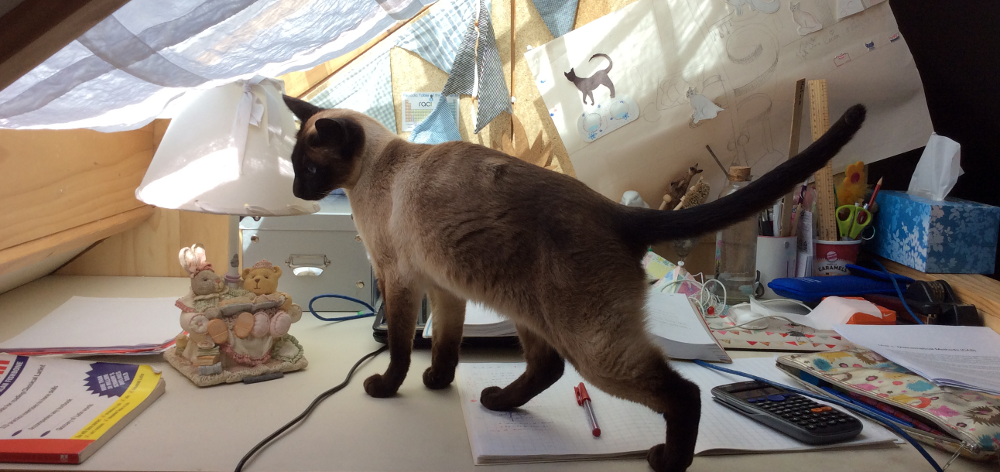
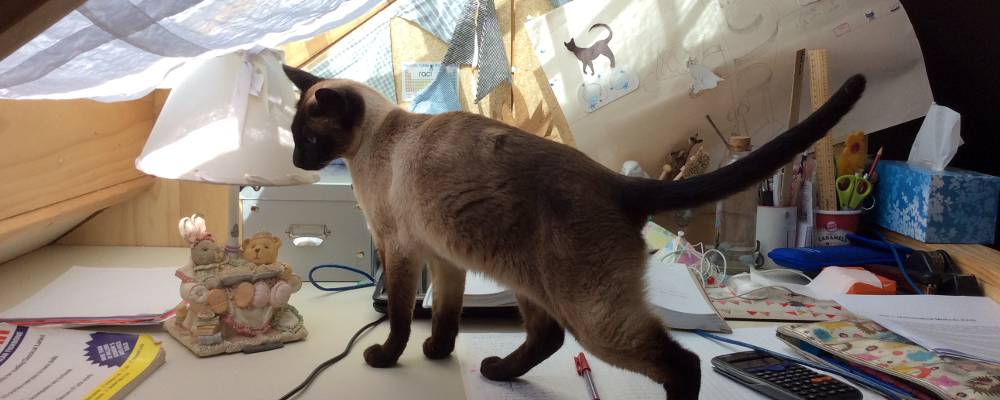
Add content, tidy css, resize centred flex-slider images

diff --git a/index.html b/index.html
@@ -47,22 +47,22 @@
     <section class="slider">
         <div class="flexslider">
             <ul class="slides">
-                <li style="background-image: url(images/baby-face-left.png);">
+                <li style="background: url(images/baby-face-left.png) center;">
                     <div class="flex-caption">
                         <span>Creamy Kitties</span>
                     </div>
                 </li>
-                <li style="background-image: url(images/IceCreamSandwich.JPG);">
+                <li style="background: url(images/IceCreamSandwich.JPG);">
                     <div class="flex-caption">
                         <span>Eat the food</span>
                     </div>
                 </li>
-                <li style="background-image: url(images/Baby2.jpg);">
+                <li style="background: url(images/Baby2.jpg) center;">
                     <div class="flex-caption">
                         <span>Meet the cats</span>
                     </div>
                 </li>
-                <li style="background-image: url(images/Print.JPG);">
+                <li style="background: url(images/Print.JPG);">
                     <div class="flex-caption">
                         <span>Feel the love</span>
                     </div>
@@ -77,14 +77,14 @@
 <br>
 <br>
 <br>
-<a href="about.html"><p style="text-align: center">About</p></a>
-<p>Read about us here</p>
+<a href="about.html" class="index"><p style="text-align: center">About</p></a>
+<p class="index">Read about us here</p>
 <br>
-<a href="contact.html"><p style="text-align: center">Find</p></a>
-<p>Find us here. Shoot us an email to let us know what you think or visit a store location.</p>
+<a href="contact.html" class="index"><p style="text-align: center">Find</p></a>
+<p class="index">Find us here. Shoot us an email to let us know what you think or visit a store location.</p>
 <br>
-<a href="toppings.html"><p style="text-align: center">Products</p></a>
-<p>Read about our products. Choose from unique ice cream toppings, as well as cat care items.</p>
+<a href="toppings.html" class="index"><p style="text-align: center">Products</p></a>
+<p class="index">Read about our products. Choose from unique ice cream toppings, as well as cat care items.</p>
 
 </body>
 </html>

diff --git a/css/styles.css b/css/styles.css
@@ -61,15 +61,23 @@ img.breeds {
     float: right;
 }
 
-p {
+p.index {
     text-align: center;
-    padding: 0 50px 50px 50px;
+    padding: 0 50px 25px 50px;
+    font-family: josefin, sans-serif;
+    font-size: 20px;
 }
 
-a {
-	 text-align: center;
-     padding: 50px;
-     color: red;
+a.index {
+    text-align: center;
+    padding: 0;
+    color: #1b6d85;
+    font-family: arial, sans-serif;
+    font-size: 40px;
+}
+
+p {
+    margin: 0 50px;
 }
 
 table, th, td {
@@ -77,6 +85,7 @@ table, th, td {
     border: 1px solid black;
     border-collapse: collapse;
 }
+
 th, td {
     padding: 5px;
     text-align: left;
@@ -87,6 +96,7 @@ table.contact, th.contact, td.contact {
     border: 0;
     border-collapse: collapse;
 }
+
 th.contact, td.contact {
     padding: 15px;
     text-align: left;

diff --git a/contact.html b/contact.html
@@ -48,7 +48,7 @@
 <table style="width:50%" class="contact">
     <tr class="contact">
         <td class="contact" style="color: #1b6d85;"><b>Email:</b></td>
-        <td class="contact">creamykitties@example.com</td>
+        <td class="contact"><a href="mailto:creamy-kitties@example.com">creamy-kitties@example.com</a></td>
     </tr>
     <tr class="contact">
         <td class="contact" style="color: #1b6d85;"><b>Phone:</b></td>
